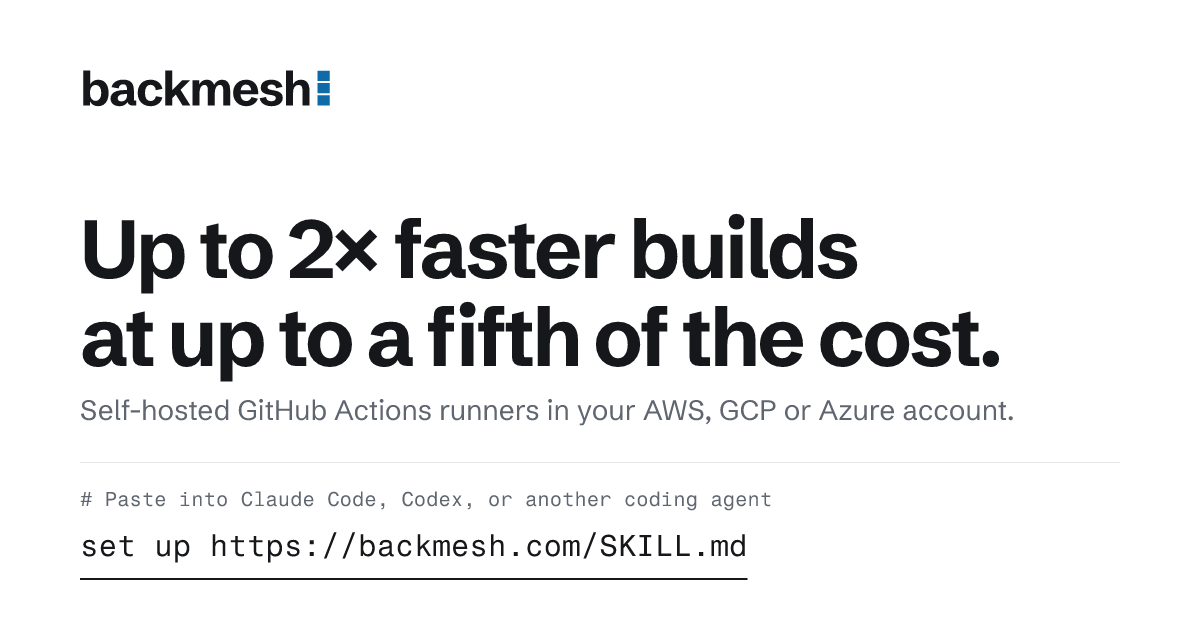
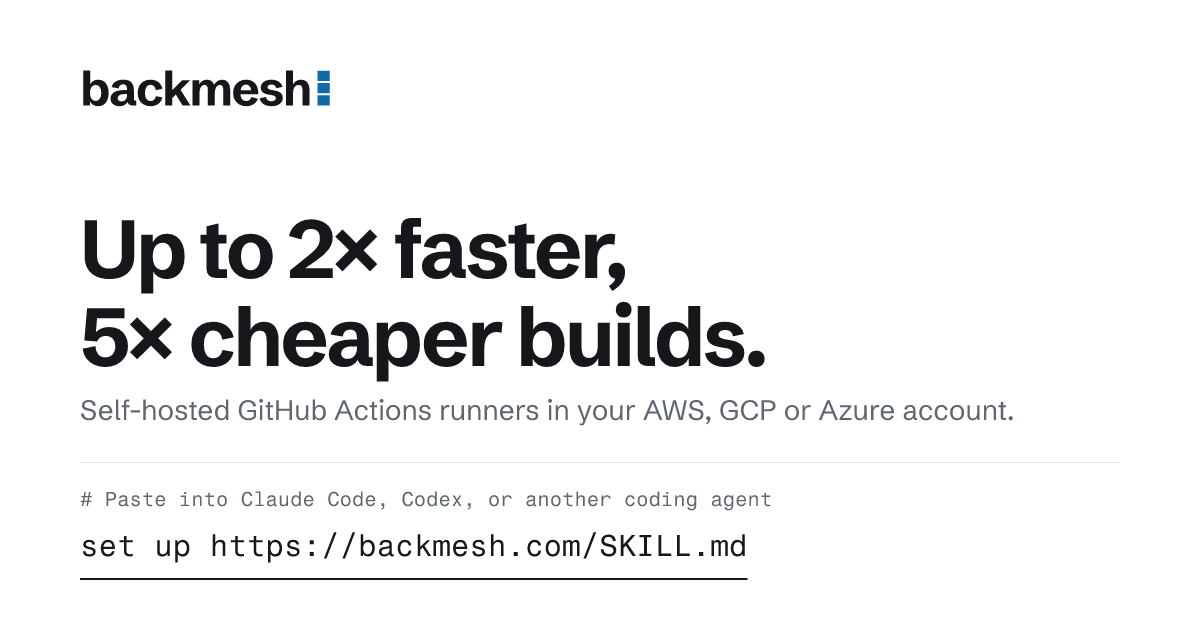
Launch copy: "Up to 2× faster, 5× cheaper builds", and a /benchmarks/ page
The headline is shorter everywhere: README, FAQ, the landing page's meta and
H1, the OG image (regenerated), llms.txt.

/benchmarks/ has the results as a matrix (Docker, Rust and TypeScript against
ubuntu-latest, backmesh-2 and backmesh-4: runtime, cost a build, cold start),
the method from the landing page's collapsible note, the workflow and all 15
runs, linked at backmesh/benchmarks. backmesh-2's costs are from the runs at
AWS us-east-2 spot from the same 2026-11-13 catalog as /cost/. The landing
cards' numbers link to their row, each card shows its own measured wait, and
"How we measured →" replaces the note. benchmarks/builds/README.md gets the
backmesh-2 column, the runs and a pointer to the page.

Changed region(s): [[0.0617, 0.4825, 0.8325, 0.6032], [0.4933, 0.3317, 0.7092, 0.4524]]

diff --git a/website/src/pages/llms.txt.ts b/website/src/pages/llms.txt.ts
@@ -32,7 +32,7 @@ export const GET: APIRoute = async ({ site }) => {
 
 - Linux x86-64 jobs in private repositories only: no macOS, Windows, Arm or GPU runners.
 - A job's \`runs-on\` label, such as \`backmesh-4\`, picks its size and cloud. Spot is the default; \`backmesh-od-*\` labels run on demand.
-- Builds: in our benchmarks (https://github.com/backmesh/backmesh/tree/main/benchmarks/builds), a 4-vCPU \`backmesh-4\` spot VM ran Docker, Rust and TypeScript builds 1.4 to 2.1× faster than GitHub's 2-vCPU \`ubuntu-latest\`, at 2.9 to 5.6× less per build (up to 2× faster at up to a fifth of the cost), before backmesh's control plane.
+- Builds: in our benchmarks (${link('/benchmarks/')}), a 4-vCPU \`backmesh-4\` spot VM ran Docker, Rust and TypeScript builds 1.4 to 2.1× faster than GitHub's 2-vCPU \`ubuntu-latest\`, at 2.9 to 5.6× less per build (up to 2× faster, 5× cheaper builds), before backmesh's control plane.
 - Compute: ${MINUTES.toLocaleString('en-US')} minutes a month of 4-vCPU Linux jobs cost ${money(headline.github)} on GitHub-hosted runners and ${money(headline.low)}–${money(headline.high)} on backmesh at spot prices, control plane included, before disks, VM boots and runners started ahead of jobs.
 - Pricing: free and open source (Apache-2.0; the cache action is MIT), with unlimited jobs and the cache included; your clouds bill you for the VMs. Premium adds Slack monitoring, logs and runtime history; talk to us at luis@backmesh.com.
 

diff --git a/website/src/content/docs/benchmarks.md b/website/src/content/docs/benchmarks.md
@@ -1,0 +1,133 @@
+---
+title: Build benchmarks against GitHub's ubuntu-latest
+description: Docker, Rust and TypeScript builds on backmesh-2 and backmesh-4 spot VMs on AWS against GitHub-hosted ubuntu-latest, 5 rounds each on 2026-11-18. backmesh-4 ran them 1.4 to 2.1× faster at 2.9 to 5.6× less per build.
+sidebar:
+  label: Benchmarks
+---
+
+We built three pinned open-source projects 5 times each on GitHub's
+`ubuntu-latest` and on backmesh's `backmesh-2` and `backmesh-4` spot VMs on
+AWS, on 2026-11-18. The figures are medians of the 5 rounds, and every run is
+[linked below](#runs).
+
+`backmesh-4` ran the builds 1.4 to 2.1× faster than `ubuntu-latest`, at 2.9 to
+5.6× less per build. At the same 2 vCPUs, `backmesh-2` was faster for Docker
+(1.5×) and TypeScript (1.3×) but slower for Rust (0.8×), partly because
+backmesh's image installs `cargo` on first use, inside the measured time
+([backmesh#22](https://github.com/backmesh/backmesh/issues/22)). It was cheaper
+on all three, 3.8 to 6.9× less per build. Each backmesh job waited longer to
+start, for its VM to boot.
+
+## Results
+
+Each cell gives the job's runtime, its cost a build and its cold start, all
+medians. On backmesh, the × after the runtime is how many times faster than
+`ubuntu-latest` it was (under 1 is slower), and after the cost how many times
+cheaper.
+
+<table>
+  <thead>
+    <tr>
+      <th>Workload</th>
+      <th><code>ubuntu-latest</code><br />2 vCPUs</th>
+      <th><code>backmesh-2</code><br />2 vCPUs</th>
+      <th><code>backmesh-4</code><br />4 vCPUs</th>
+    </tr>
+  </thead>
+  <tbody>
+    <tr id="docker">
+      <th>Docker<br /><small><a href="https://github.com/grafana/k6">k6 v0.54.0</a></small></th>
+      <td><strong>148 s</strong><br />$0.018<br />2 s start</td>
+      <td><strong>102 s</strong> · 1.5×<br />$0.0026 · 6.9×<br />40 s start</td>
+      <td><strong>71 s</strong> · 2.1×<br />$0.0032 · 5.6×<br />48 s start</td>
+    </tr>
+    <tr id="rust">
+      <th>Rust<br /><small><a href="https://github.com/BurntSushi/ripgrep">ripgrep 14.1.1</a></small></th>
+      <td><strong>70 s</strong><br />$0.012<br />2 s start</td>
+      <td><strong>83 s</strong> · 0.8×<br />$0.0024 · 5.0×<br />46 s start</td>
+      <td><strong>49 s</strong> · 1.4×<br />$0.0027 · 4.4×<br />50 s start</td>
+    </tr>
+    <tr id="typescript">
+      <th>TypeScript<br /><small><a href="https://github.com/microsoft/TypeScript">microsoft/TypeScript v5.6.3</a></small></th>
+      <td><strong>56 s</strong><br />$0.006<br />2 s start</td>
+      <td><strong>44 s</strong> · 1.3×<br />$0.0016 · 3.8×<br />42 s start</td>
+      <td><strong>35 s</strong> · 1.6×<br />$0.0021 · 2.9×<br />43 s start</td>
+    </tr>
+  </tbody>
+</table>
+
+## Method
+
+- **Runtime** is a job's start to its finish, as GitHub records them.
+- **Cold start** is a job's queueing to its start. backmesh's runners started
+  without a cue, so each job waited for its VM to boot. With
+  [`backmesh cue`](/#cue), the runner boots before the push, and the median wait was
+  17 s in our
+  [cue benchmark](https://github.com/backmesh/backmesh/tree/main/benchmarks/cue#results).
+- **Size.** The repository was private when the runs were made, so
+  `ubuntu-latest` had 2 vCPUs. `backmesh-2` has 2 vCPUs and 8 GiB, and
+  `backmesh-4` 4 vCPUs and 16 GiB.
+- **GitHub's cost** is each job's runtime rounded up to whole minutes, at
+  $0.006 a minute.
+- **backmesh's cost** is the median runtime plus the median cold start, at its
+  VM's spot price and its disk's. The VM boots during the cold start, so
+  counting all of it slightly overstates the cost. The spot price is the middle
+  of the range of the label's AWS types in us-east-2, in the
+  [anycloud catalog](https://github.com/anycloud-sh/catalog/blob/fc06c8852d411ca466091911e8d9629bd7e0ca9c/aws/vms.csv)
+  on 2026-11-13, as on the [cost page](/cost/): $0.024 to $0.0308 an hour for
+  `backmesh-2`, $0.0497 to $0.07 for `backmesh-4`. The disk is 100 GB of gp3 at
+  4,000 IOPS and 500 MiB/s, about $0.0384 an hour. It leaves out backmesh's
+  control plane, about $86 a month on AWS.
+- **Caches.** Neither side used a build cache, except setup-node's default npm
+  cache, on both.
+- **Toolchains.** `ubuntu-latest` has Rust preinstalled. backmesh's image
+  doesn't: its first-use handler installs Ubuntu's `cargo` package when the job
+  first calls it, inside the measured time.
+
+## The workflow
+
+[`benchmarks/builds/bench.yml`](https://github.com/backmesh/backmesh/blob/main/benchmarks/builds/bench.yml)
+has a job for each workload. The repository variable `BENCH_RUNNER` picks the
+runner, and a push to the `bench` branch starts a round.
+
+```yaml
+name: bench
+on:
+  push:
+    branches: [bench]
+permissions:
+  contents: read
+jobs:
+  typescript:
+    runs-on: ${{ vars.BENCH_RUNNER }}
+    steps:
+      - uses: actions/checkout@v5
+        with: { repository: microsoft/TypeScript, ref: v5.6.3 }
+      - uses: actions/setup-node@v5
+        with: { node-version: 22 }
+      - run: npm ci --no-audit --no-fund
+      - run: npx hereby local
+  rust:
+    runs-on: ${{ vars.BENCH_RUNNER }}
+    steps:
+      - uses: actions/checkout@v5
+        with: { repository: BurntSushi/ripgrep, ref: 14.1.1 }
+      - run: cargo build --release --locked
+  docker:
+    runs-on: ${{ vars.BENCH_RUNNER }}
+    steps:
+      - uses: actions/checkout@v5
+        with: { repository: grafana/k6, ref: v0.54.0 }
+      - run: docker build -t bench .
+```
+
+## Runs
+
+Each round is one run of the workflow, its three jobs in parallel, in
+[backmesh/benchmarks](https://github.com/backmesh/benchmarks).
+
+| Runner          | Round 1                                                                        | Round 2                                                                        | Round 3                                                                        | Round 4                                                                        | Round 5                                                                        |
+| --------------- | ------------------------------------------------------------------------------ | ------------------------------------------------------------------------------ | ------------------------------------------------------------------------------ | ------------------------------------------------------------------------------ | ------------------------------------------------------------------------------ |
+| `ubuntu-latest` | [44364487787](https://github.com/backmesh/benchmarks/actions/runs/44364487787) | [44365905066](https://github.com/backmesh/benchmarks/actions/runs/44365905066) | [44367215179](https://github.com/backmesh/benchmarks/actions/runs/44367215179) | [44368389022](https://github.com/backmesh/benchmarks/actions/runs/44368389022) | [44369659562](https://github.com/backmesh/benchmarks/actions/runs/44369659562) |
+| `backmesh-2`    | [44379996886](https://github.com/backmesh/benchmarks/actions/runs/44379996886) | [44380630467](https://github.com/backmesh/benchmarks/actions/runs/44380630467) | [44381256875](https://github.com/backmesh/benchmarks/actions/runs/44381256875) | [44381793669](https://github.com/backmesh/benchmarks/actions/runs/44381793669) | [44382248237](https://github.com/backmesh/benchmarks/actions/runs/44382248237) |
+| `backmesh-4`    | [44365142077](https://github.com/backmesh/benchmarks/actions/runs/44365142077) | [44366607804](https://github.com/backmesh/benchmarks/actions/runs/44366607804) | [44367828921](https://github.com/backmesh/benchmarks/actions/runs/44367828921) | [44369100505](https://github.com/backmesh/benchmarks/actions/runs/44369100505) | [44370343686](https://github.com/backmesh/benchmarks/actions/runs/44370343686) |

diff --git a/benchmarks/builds/README.md b/benchmarks/builds/README.md
@@ -1,7 +1,9 @@
 # Build benchmarks
 
-How long three open-source builds take on a `backmesh-4` runner and on
-GitHub's `ubuntu-latest`, and what each build costs.
+How long three open-source builds take on `backmesh-2` and `backmesh-4`
+runners and on GitHub's `ubuntu-latest`, and what each build costs.
+[backmesh.com/benchmarks](https://backmesh.com/benchmarks/) has the results,
+the method and every run.
 
 [`bench.yml`](bench.yml) has three jobs, each checking out a pinned release of
 a public project and building it:
@@ -13,47 +15,50 @@ a public project and building it:
 - **TypeScript**: `npm ci` and `npx hereby local` of
   [microsoft/TypeScript](https://github.com/microsoft/TypeScript) v5.6.3.
 
-The repository variable `BENCH_RUNNER` picks the runner: `backmesh-4` or
-`ubuntu-latest`. A push to the `bench` branch starts a round.
+The repository variable `BENCH_RUNNER` picks the runner: `backmesh-2`,
+`backmesh-4` or `ubuntu-latest`. A push to the `bench` branch starts a round.
 
 ## Results
 
-Measured on 2026-11-18 in a private repository, 5 rounds on each runner. The
-figures are medians.
+Measured on 2026-11-18 in [backmesh/benchmarks](https://github.com/backmesh/benchmarks),
+then private, 5 rounds on each runner. The figures are medians: the job's
+runtime, its cost a build, and its cold start, its queueing to its start.
 
-| Build      | backmesh-4 | ubuntu-latest | Faster | Cost a build, backmesh-4 | Cost a build, ubuntu-latest | Cheaper |
-| ---------- | ---------- | ------------- | ------ | ------------------------ | --------------------------- | ------- |
-| Docker     | 71 s       | 148 s         | 2.1×   | $0.0032                  | $0.018                      | 5.6×    |
-| Rust       | 49 s       | 70 s          | 1.4×   | $0.0027                  | $0.012                      | 4.4×    |
-| TypeScript | 35 s       | 56 s          | 1.6×   | $0.0021                  | $0.006                      | 2.9×    |
+| Build      | ubuntu-latest, 2 vCPUs | backmesh-2, 2 vCPUs  | backmesh-4, 4 vCPUs |
+| ---------- | ---------------------- | -------------------- | ------------------- |
+| Docker     | 148 s, $0.018, 2 s     | 102 s, $0.0026, 40 s | 71 s, $0.0032, 48 s |
+| Rust       | 70 s, $0.012, 2 s      | 83 s, $0.0024, 46 s  | 49 s, $0.0027, 50 s |
+| TypeScript | 56 s, $0.006, 2 s      | 44 s, $0.0016, 42 s  | 35 s, $0.0021, 43 s |
 
-Each job's queue wait, its `created_at` to its `started_at`, on `backmesh-4`
-without a cue, in seconds:
+`backmesh-4` ran the builds 1.4 to 2.1× faster than `ubuntu-latest`, at 2.9
+to 5.6× less per build. At the same 2 vCPUs, `backmesh-2` was faster for
+Docker (1.5×) and TypeScript (1.3×) but slower for Rust (0.8×), partly the
+`cargo` install on first use
+([backmesh#22](https://github.com/backmesh/backmesh/issues/22)), and 3.8 to
+6.9× cheaper on all three.
 
-| Round | Docker | Rust | TypeScript |
-| ----- | ------ | ---- | ---------- |
-| 1     | 99     | 51   | 43         |
-| 2     | 51     | 50   | 50         |
-| 3     | 37     | 36   | 36         |
-| 4     | 43     | 50   | 43         |
-| 5     | 48     | 50   | 50         |
+The runs, one a round:
 
-That's a median of 50 s, from 36 to 99 s. On `ubuntu-latest` every job waited
-1 to 3 s, a median of 2 s.
+- `ubuntu-latest`: [44364487787](https://github.com/backmesh/benchmarks/actions/runs/44364487787), [44365905066](https://github.com/backmesh/benchmarks/actions/runs/44365905066), [44367215179](https://github.com/backmesh/benchmarks/actions/runs/44367215179), [44368389022](https://github.com/backmesh/benchmarks/actions/runs/44368389022), [44369659562](https://github.com/backmesh/benchmarks/actions/runs/44369659562)
+- `backmesh-2`: [44379996886](https://github.com/backmesh/benchmarks/actions/runs/44379996886), [44380630467](https://github.com/backmesh/benchmarks/actions/runs/44380630467), [44381256875](https://github.com/backmesh/benchmarks/actions/runs/44381256875), [44381793669](https://github.com/backmesh/benchmarks/actions/runs/44381793669), [44382248237](https://github.com/backmesh/benchmarks/actions/runs/44382248237)
+- `backmesh-4`: [44365142077](https://github.com/backmesh/benchmarks/actions/runs/44365142077), [44366607804](https://github.com/backmesh/benchmarks/actions/runs/44366607804), [44367828921](https://github.com/backmesh/benchmarks/actions/runs/44367828921), [44369100505](https://github.com/backmesh/benchmarks/actions/runs/44369100505), [44370343686](https://github.com/backmesh/benchmarks/actions/runs/44370343686)
 
 ## Method
 
-- **Runtime** is a job's start to its finish. The wait before the job starts,
-  from its queueing, isn't in it: a median 2 s on GitHub, 50 s on backmesh without a cue (the table
-  above), and about 17 s with `backmesh cue`
+- **Runtime** is a job's start to its finish. The cold start isn't in it:
+  backmesh's runners started without a cue, so each job waited for its VM to
+  boot. With `backmesh cue` the median wait was 17 s
   ([cue results](../cue/README.md#results)).
-- **Size.** `ubuntu-latest` in a private repository has 2 vCPUs; `backmesh-4`
-  has 4 vCPUs and 16 GiB.
-- **GitHub's cost** is whole minutes at $0.006 a minute.
-- **backmesh's cost** is its spot VM in us-east-2, at the middle of $0.0497 to
-  $0.07 an hour, and its 100 GB gp3 disk at 4,000 IOPS and 500 MiB/s, counted
-  from the VM's boot. It leaves out backmesh's control plane, about $86 a
-  month on AWS.
+- **Size.** `ubuntu-latest` in a private repository has 2 vCPUs; `backmesh-2`
+  has 2 vCPUs and 8 GiB, `backmesh-4` 4 vCPUs and 16 GiB.
+- **GitHub's cost** is each job's runtime in whole minutes at $0.006 a minute.
+- **backmesh's cost** is the median runtime plus the median cold start, at its
+  spot VM's price in us-east-2 and its disk's. The VM boots during the cold
+  start, so this slightly overstates it. The spot price is the middle of the
+  label's types' range in the anycloud catalog on 2026-11-13: $0.024 to
+  $0.0308 an hour for `backmesh-2`, $0.0497 to $0.07 for `backmesh-4`. The
+  100 GB gp3 disk at 4,000 IOPS and 500 MiB/s adds about $0.0384 an hour. It
+  leaves out backmesh's control plane, about $86 a month on AWS.
 - **Caches.** Neither side used a build cache, except setup-node's default npm
   cache, on both.
 - **Toolchains.** `ubuntu-latest` has Rust preinstalled. backmesh's image

diff --git a/website/src/content/docs/faq.md b/website/src/content/docs/faq.md
@@ -29,8 +29,7 @@ GitHub Actions runners.
 
 **How does backmesh compare with GitHub-hosted runners?** A workflow changes
 only its `runs-on`. Its jobs run on spot VMs in your accounts. In our [build
-benchmarks](/#benchmarks), builds ran up to 2× faster at up to a fifth of the
-cost, and your cloud credits apply. Each job waits for its VM to boot, and only
+benchmarks](/benchmarks/), builds ran up to 2× faster and 5× cheaper, and your cloud credits apply. Each job waits for its VM to boot, and only
 Linux x86-64 jobs in private repositories can use the runners.
 
 **Which clouds does backmesh run on?** AWS, Google Cloud (GCP) and Azure. One installation can use

diff --git a/README.md b/README.md
@@ -3,8 +3,8 @@
 Self-hosted GitHub Actions runners in your own AWS, GCP or Azure account. Each
 job runs on its own spot VM, which is deleted when the job ends.
 
-- **Up to 2× faster builds at up to a fifth of the cost.** In our
-  [build benchmarks](benchmarks/builds/), a `backmesh-4` spot VM ran Docker,
+- **Up to 2× faster, 5× cheaper builds.** In our
+  [build benchmarks](https://backmesh.com/benchmarks/), a `backmesh-4` spot VM ran Docker,
   Rust and TypeScript builds 1.4 to 2.1× faster than GitHub's `ubuntu-latest`,
   at 2.9 to 5.6× less per build. Your cloud bills you, so your cloud credits
   apply.
